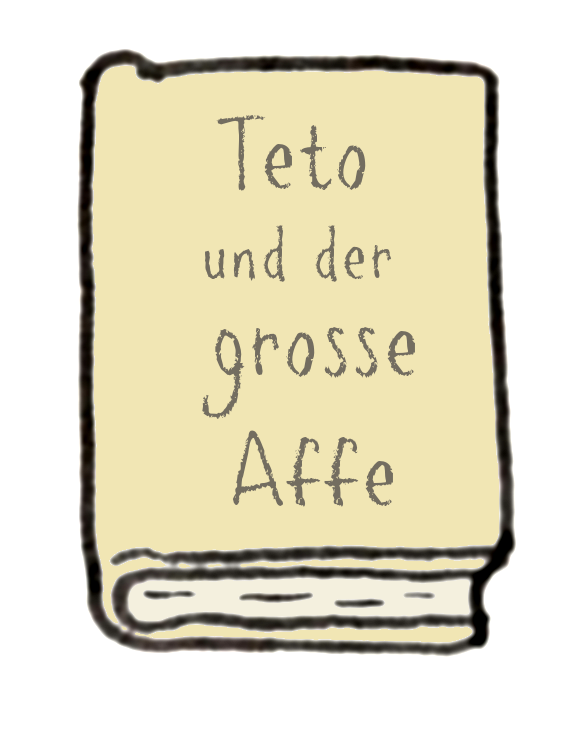
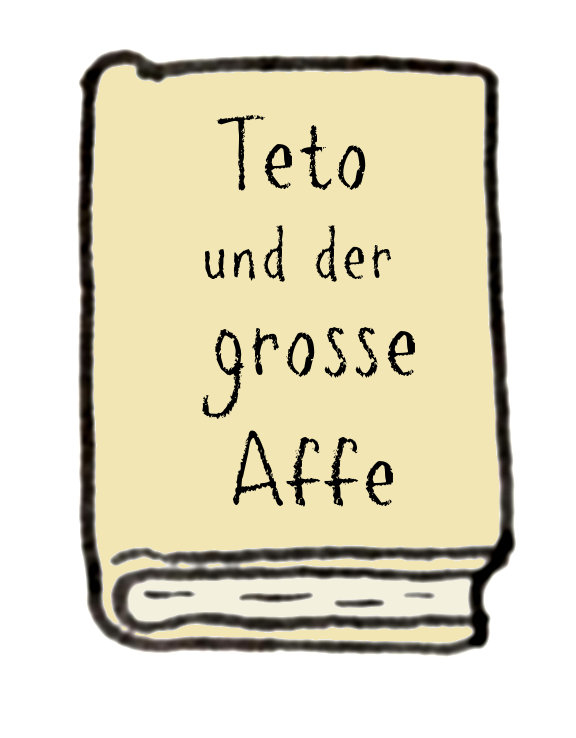
german book text colour

diff --git a/Teto1.html b/Teto1.html
@@ -96,7 +96,7 @@
             <li>
 
                 <a href="books/Teto-book-de-de-print.reduced.pdf" title="Teto und der große Affe">
-                    <img width="100px" src="images/icon.books/icon.book.teto1.German.png">
+                    <img width="100px" src="images/icon.book.teto1.German.png">
                 </a>
 
                     <div class="German">
